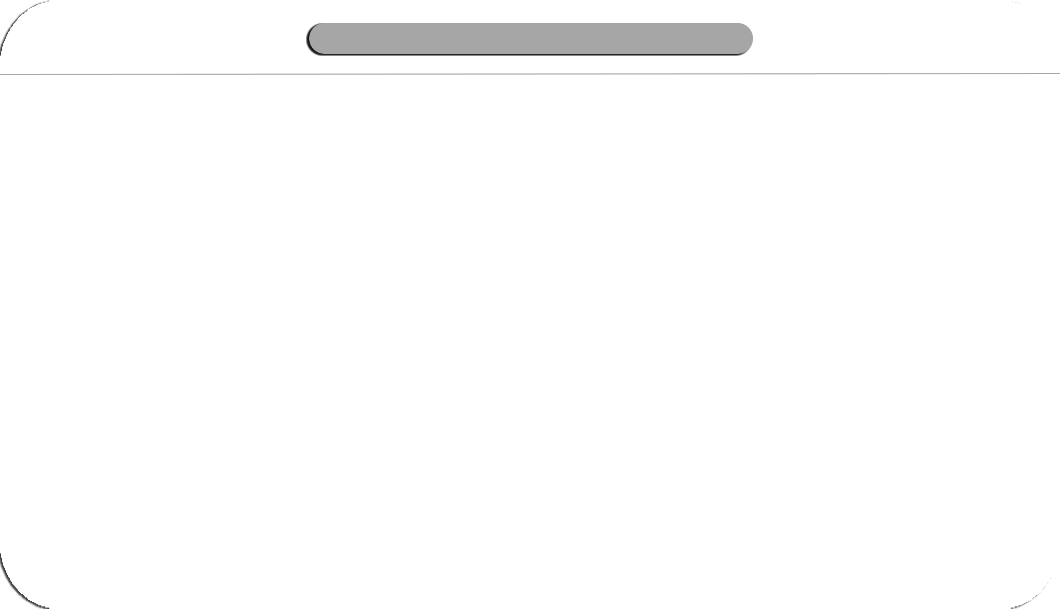
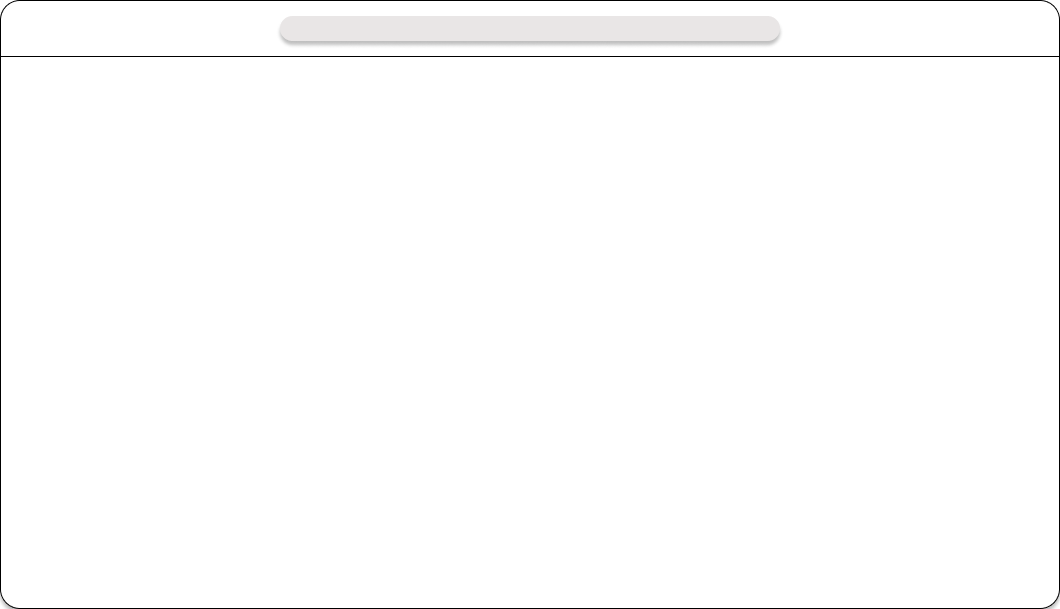
Đổi mới và hoàn thiện cơ bản hình ảnh của màn hình chính thứ nhất #2

Changed region(s): [[0.0, 0.0, 1.0, 1.0], [0.2491, 0.0, 0.7472, 0.1248], [0.0, 0.0, 0.0311, 0.0936]]

diff --git a/Volume/Scene1.js b/Volume/Scene1.js
@@ -1,4 +1,4 @@
-let constWeightBallGreen = 545;
+let constWeightBallGreen = 515;
 let ballNumber = 8;
 
 
@@ -29,6 +29,19 @@ class Scene1 extends Phaser.Scene{
         this.load.image('carBig', 'Assets/15.png')
         this.load.image('ballGreen', 'Assets/ballGreen.png')
         this.load.image('speaker', 'Assets/speaker.png')
+
+
+        this.load.image('ballGroup1', 'Assets/1/ballGroup1.png')
+        this.load.image('bearGroup1', 'Assets/1/bearGroup1.png')
+        this.load.image('gatoGroup1', 'Assets/1/gatoGroup1.png')
+
+        this.load.image('ballGroup2', 'Assets/2/ballGroup2.png')
+        this.load.image('bearBlueGroup2', 'Assets/2/bearBuleGroup2.png')
+        this.load.image('gatoGroup2', 'Assets/2/gatoGroup2.png')
+
+        this.load.image('ballGroup3', 'Assets/3/ballGroup3.png')
+        this.load.image('bearGroup3', 'Assets/3/bearGroup3.png')
+        this.load.image('gatoGroup3', 'Assets/3/gatoGroup3.png')
     }
 
     //create game;
@@ -37,10 +50,16 @@ class Scene1 extends Phaser.Scene{
         this.backGround = this.add.image(0, 0, 'backGround').setOrigin(0, 0)
         this.frameWork = this.add.image(250, 20, 'frameWork').setOrigin(0, 0)
 
+
+        this.ballGroup1 = this.add.image(250, 90, 'ballGroup1').setOrigin(0, 0)
+        this.bearGroup1 = this.add.image(250, 240, 'bearGroup1').setOrigin(0, 0)
+        this.gatoGroup1 = this.add.image(250, 390, 'gatoGroup1').setOrigin(0, 0)
+
         let arr = new Array("ballGreen");
         for(let i = 0; i < ballNumber; i++){
-            arr[i] = this.add.image(constWeightBallGreen += 25, 48, "ballGreen").setOrigin(0, 0);
+            arr[i] = this.add.image(constWeightBallGreen += 25, 38, "ballGreen").setOrigin(0, 0);
         }
+
     }
 
     //Update;
